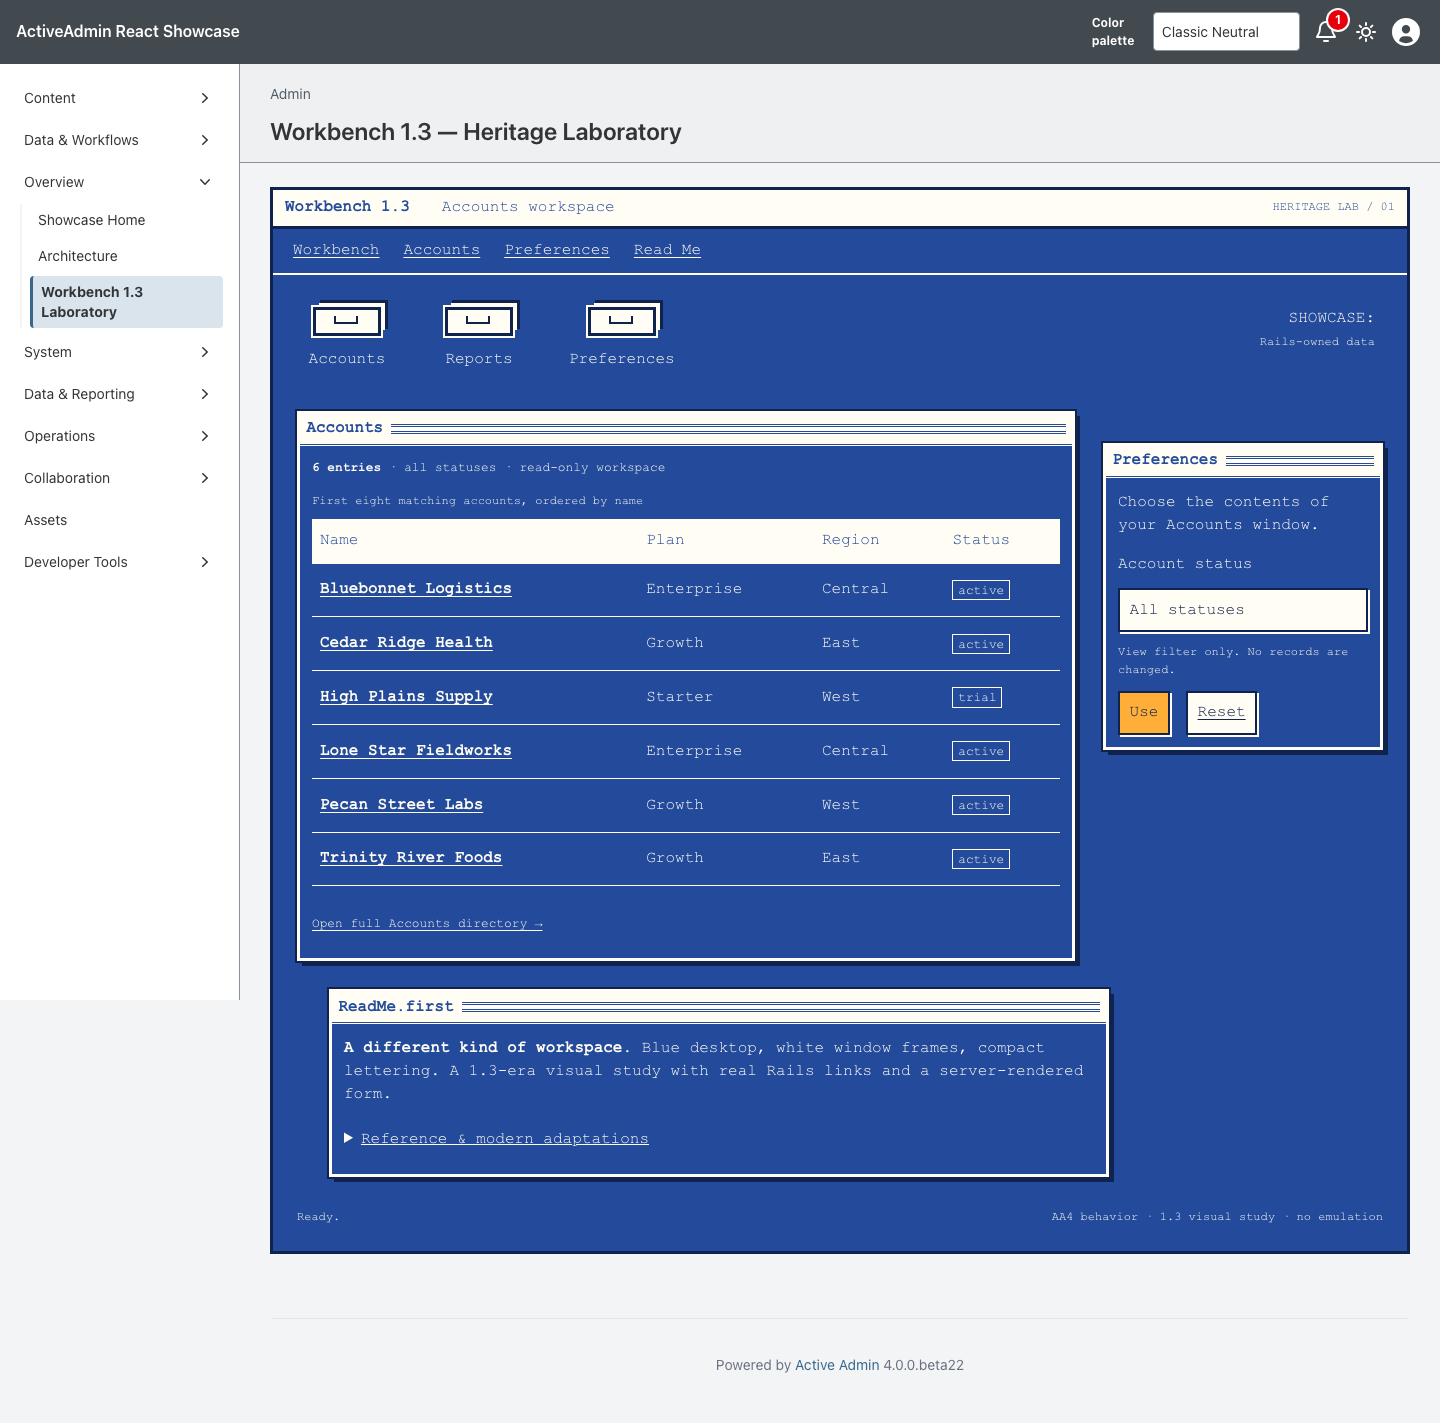
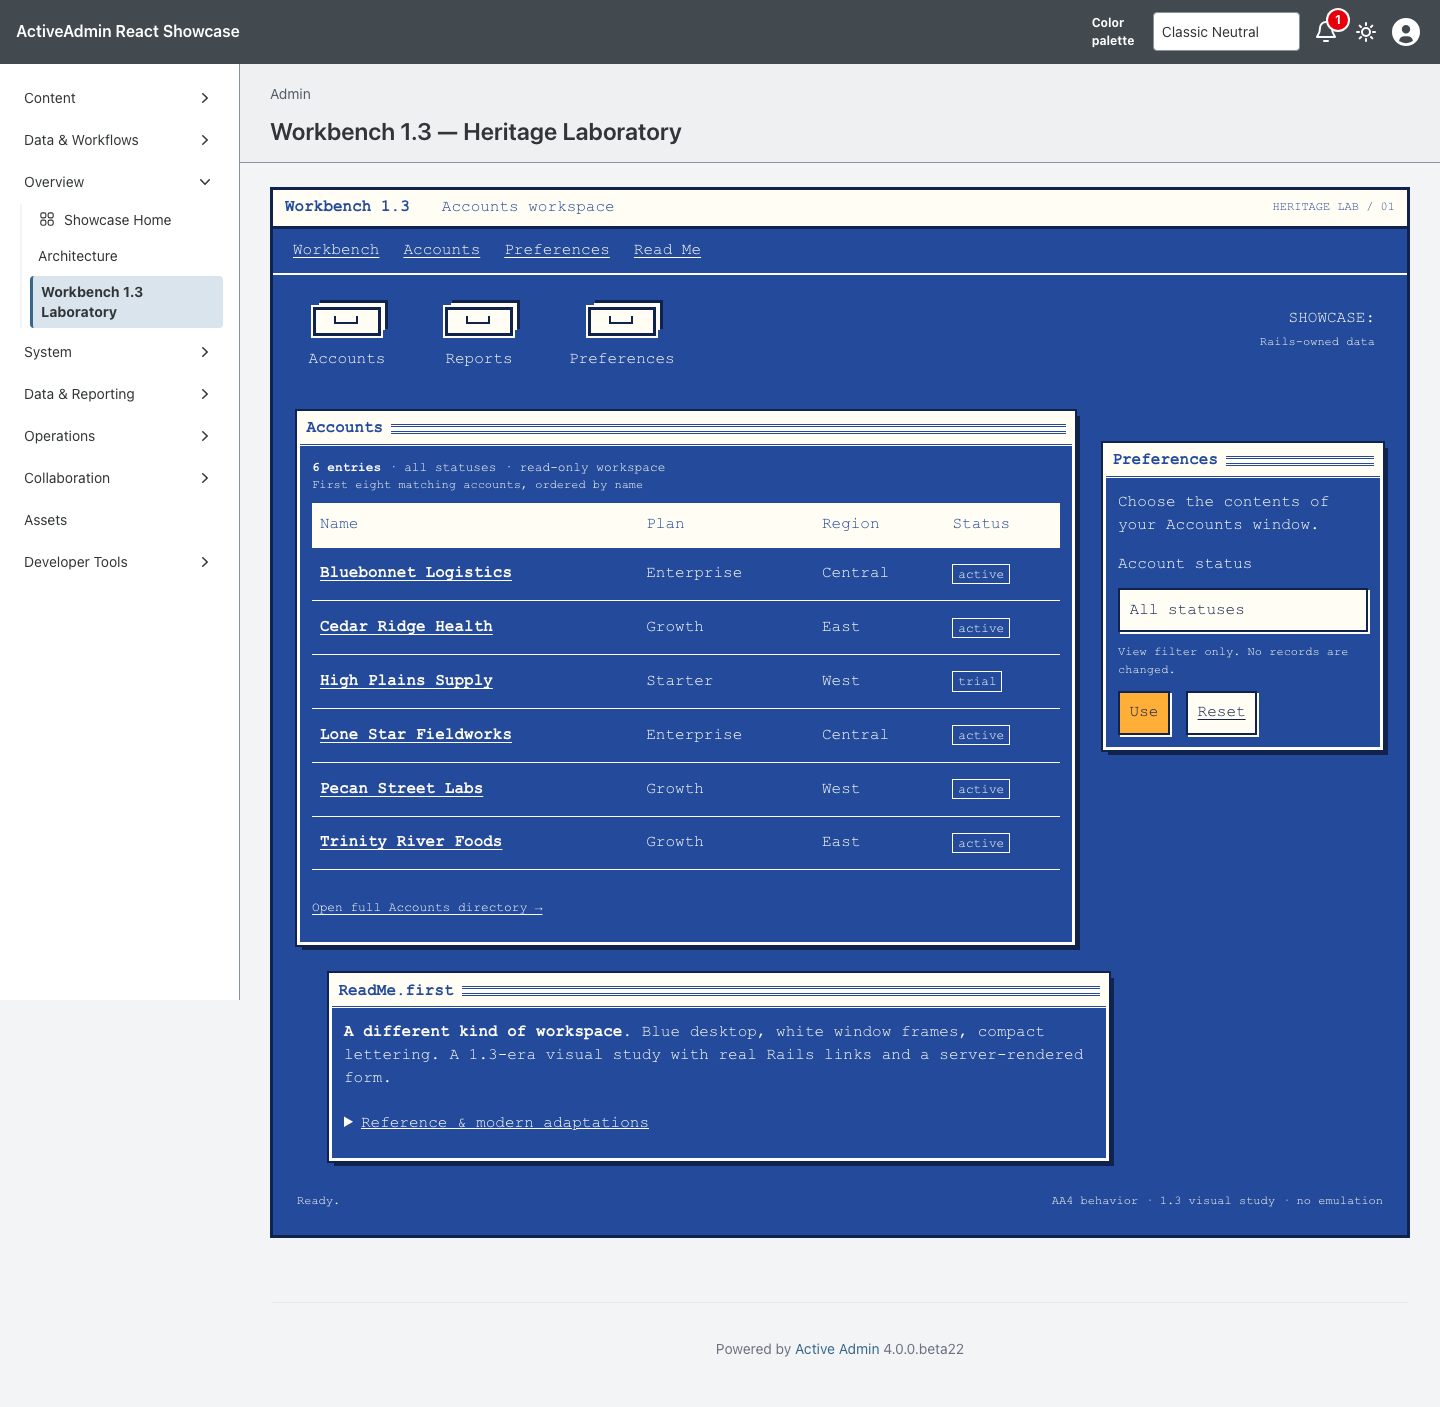
docs: refresh Workbench consumer evidence

diff --git a/docs/heritage-workbench-13.md b/docs/heritage-workbench-13.md
@@ -2,15 +2,17 @@
 
 # Workbench 1.3 Heritage Laboratory
 
-First bounded study for [Heritage Themes #103](https://github.com/scarver2/activeadmin-react-showcase/issues/103).
+Consumer proof for the first promoted theme in [Heritage Themes #103](https://github.com/scarver2/activeadmin-react-showcase/issues/103).
 Visit `/admin/workbench_laboratory` after signing in, or choose **Overview →
-Workbench 1.3 Laboratory**. This is one authenticated AA4 page, not a selectable
-application-wide theme, an emulator, or a generalized heritage-theme framework.
+Workbench 1.3 Laboratory**. This is one authenticated AA4 page, not an emulator
+or a claim that the remaining Heritage collection is complete.
 
-Deputy cleared this independent research lane on September 20, 2026: current
-master → one Workbench 1.3 surface → screenshot review. It does not depend on or
-modify the #72 → #108 → #73 → #105 production composition stack. Generalization,
-a second surface and subsequent heritage implementations remain review-gated.
+The original laboratory established the accepted design at Showcase head
+`9c630d5b683cf6780e851d3004f7ddf3d8cb4918`. Presentation now comes from the
+deterministic Workbench 1.3 recipe in stacked `activeadmin-themes` PR #32. The
+Showcase pins an exact gem commit, commits the installed stylesheet, maps the
+gem's immutable composition slots onto semantic Rails markup, and retains all
+routes, data, filtering, authorization and accessibility behavior locally.
 
 ## Reference And Provenance
 
@@ -60,21 +62,23 @@ JavaScript state machine or network dependency. Existing synthetic seed data is
 used for evidence; this is not production or Rodeo data.
 
 The outer AA4 shell intentionally remains visible as the laboratory boundary.
-The skin selector still controls that shell, not this fixed historical study.
-All prototype CSS is rooted at `.wb13`; no theme token values are changed globally.
+The server-rendered layout opts this route into
+`data-activeadmin-theme="workbench-13"`; every presentation selector remains
+scoped to that value and the theme workspace. Host dark preference does not
+invent a historical dark variant, while forced-colors remains user-controlled.
 
-## Schema Pressure, Not A New API
+## Promoted Theme Contract
 
-- **Foundation:** local four-color vocabulary and system monospace.
-- **Composition:** screen title, menu, drawer row and reflowing windows.
-- **Components:** plain links, native form controls, table, textual status and window framing.
+- **Foundation:** packaged four-color vocabulary and system monospace.
+- **Composition:** immutable roles for screen header, navigation, launchers, windows, data, forms, actions and footer.
+- **Components:** host-semantic links, native form controls, table, textual status and window framing.
 - **Surface:** one read-only account workspace, not new index/show/edit implementations.
-- **Hardening:** focus, horizontal table scrolling, narrow reflow and user preferences.
+- **Hardening:** packaged focus, horizontal table scrolling, narrow reflow and user preferences.
 
-The experiment suggests that frame geometry and heading treatment need to be
-separate from palettes, and that icon vocabulary may vary for heritage signature
-illustration while functional labels remain stable. These are observations for
-#83, not reasons to extract global abstractions before review.
+The original CSS drawer illustration remains composition-owned geometry rather
+than an addition to the Heroicons-first semantic icon registry. Requiring the
+gem performs no installation, asset injection or runtime DOM mutation; the host
+explicitly owns its installed CSS file and import.
 
 ## Verification
 
@@ -87,11 +91,16 @@ physical-device or multi-browser claim is made.
 
 ## Screenshot Provenance
 
-Captured from source `3e6f1670630e0690f9e35758c1777e0e3b0626b3` on
-September 20, 2026, using Playwright 1.63.0 / Chromium 153.0.8010.12 on macOS
-26.7. Seeded synthetic accounts, default zoom, fresh page load at each viewport:
-1440×1000 desktop and 390×1000 narrow. Both focused browser scenarios passed.
-All images were visually inspected. These are generated Showcase captures;
+Captured from implementation source `3a84b1d3e597a9fbd37ee77b20db36cc67723eae`
+on September 21, 2026, using Playwright 1.63.0 / Chromium 153.0.8010.12
+on macOS 26.7. The host pins `activeadmin-themes` exact head
+`7ca85b1da9e5c69617178924a30a1080aa250c94`; installed Workbench CSS SHA-256
[1 lines of base64/hex data omitted]
+Seeded synthetic accounts, default zoom, and a fresh page load were used at
+1440×1000 desktop and 390×1000 narrow. Both focused browser scenarios passed,
+including primary/secondary action contrast, bounded whole-page width, and a
+keyboard-focusable horizontally scrollable data region at narrow width. Both
+images were visually inspected. These are generated Showcase captures;
 historical reference images are linked only and are not included in the repo.
 
 ```sh
@@ -105,8 +114,8 @@ CAPTURE_SHOWCASE_SCREENSHOTS=1 CI=1 PLAYWRIGHT_PORT=3176 mise exec -- npx playwr
 SHA256:
 
 ```text
-workbench-13-1440.png  1f1c88ec8157196ebd48623e75402a677ddf9df5508c96ae32eb9470d5f4f9b1
-workbench-13-390.png   25e2db8f0f6012daca8b5e4a9fabce4ebe63698d07b34f7673ca357084e2f429
+workbench-13-1440.png  820ccd31f845eb6e2662e69c8580552e8d50da03f8745e4f3895f7ac663baf3d
+workbench-13-390.png   5b2cf562f08ec93ded08aedb58699b905a24e792515a10aab4e9d37c991cd53a
 ```
 
 The native AA4 drawer remained open when shrinking an already-loaded desktop

diff --git a/docs/themes.md b/docs/themes.md
@@ -10,7 +10,7 @@ The showcase composes two independent libraries:
 
 `activeadmin-themes` has not published a RubyGems release yet. The Gemfile
 therefore pins the reviewed public source contract at exact commit
-[`c29216395c358acac3ae1c8863a31a0113334cec`](https://github.com/scarver2/activeadmin-themes/commit/c29216395c358acac3ae1c8863a31a0113334cec).
+[`7ca85b1da9e5c69617178924a30a1080aa250c94`](https://github.com/scarver2/activeadmin-themes/commit/7ca85b1da9e5c69617178924a30a1080aa250c94).
 Do not float this dependency on `master`.
 
 The host explicitly loads the gem's Rake tasks and installed recipe 1 with:
@@ -20,14 +20,17 @@ bundle exec rake 'activeadmin_themes:install[v3,app/frontend/styles/active_admin
 bundle exec rake 'activeadmin_themes:status[v3,app/frontend/styles/active_admin.css]'
 bundle exec rake 'activeadmin_themes:install[texas_bluebonnet,app/frontend/styles/active_admin.css]'
 bundle exec rake 'activeadmin_themes:status[texas_bluebonnet,app/frontend/styles/active_admin.css]'
+bundle exec rake 'activeadmin_themes:install[workbench_13,app/frontend/styles/active_admin.css]'
+bundle exec rake 'activeadmin_themes:status[workbench_13,app/frontend/styles/active_admin.css]'
 ```
 
-The installer created `app/frontend/styles/active_admin_v3.css` and
-`app/frontend/styles/active_admin_texas_bluebonnet.css`; the application
-entrypoint imports both into the existing Vite/Tailwind build. The generated
-files are deliberately committed and application-owned. Re-running `status`
-must report `identical`; a modified destination is a review event, never an
-invitation to overwrite local work.
+The installer created `app/frontend/styles/active_admin_v3.css`,
+`app/frontend/styles/active_admin_texas_bluebonnet.css`, and
+`app/frontend/styles/active_admin_workbench_13.css`; the application entrypoint
+imports them into the existing Vite/Tailwind build. The generated files are
+deliberately committed and application-owned. Re-running `status` must report
+`identical`; a modified destination is a review event, never an invitation to
+overwrite local work.
 
 The recipe styles native ActiveAdmin chrome, tables, filters, forms, status surfaces, login, responsive behavior, and the framework's existing light/dark state. React islands inherit the same semantic CSS variables where their presentation overlaps. The theme does not own island state, Rails commands, persistence, or server-rendered fallbacks.
 
@@ -48,11 +51,27 @@ host therefore carries an exact upstream layout override with one rendered
 divergence: the conditional Texas Bluebonnet data attribute. A source-parity
 spec pins the upstream layout hash and proves every other byte remains aligned;
 an ActiveAdmin upgrade must deliberately refresh that compatibility boundary.
+The same bounded override applies `data-activeadmin-theme="workbench-13"` only
+to the Workbench laboratory route.
 
 The formerly local `bluebonnet_workspace.css` has been removed. No gem CSS is
 copied into handwritten host styles, no runtime theme switcher is introduced,
 and loading the gem does not mutate ActiveAdmin. The committed application-owned
 stylesheet is byte-equal to `ActiveAdmin::Themes::Recipes::TexasBluebonnet.source`.
+
+## Workbench 1.3 Heritage Theme
+
+Workbench 1.3 uses the same recipe and composition boundary. The gem owns its
+fixed historical colors, compact system-monospace treatment, labelled CSS drawer
+art, window framing, data and form presentation, responsive reflow, visible
+focus, reduced-motion and forced-colors rules. It deliberately does not invent
+a dark historical variant.
+
+Showcase owns the authenticated page, bounded Account query, allowlisted GET
+filter, semantic table/form markup, native resource routes, no-JavaScript path,
+provenance ledger and browser evidence. Its committed stylesheet is byte-equal
+to `ActiveAdmin::Themes::Recipes::Workbench13.source`; the removed local
+`workbench_13.css` is no longer an alternate presentation implementation.
 
 ## Skin / Color Palette Switcher And Token Bridge
 
